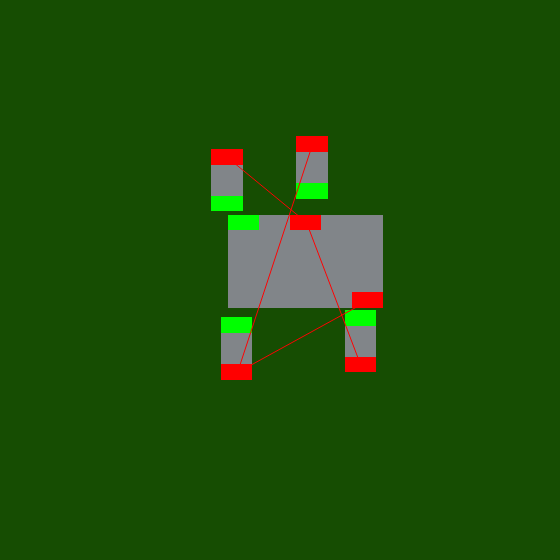
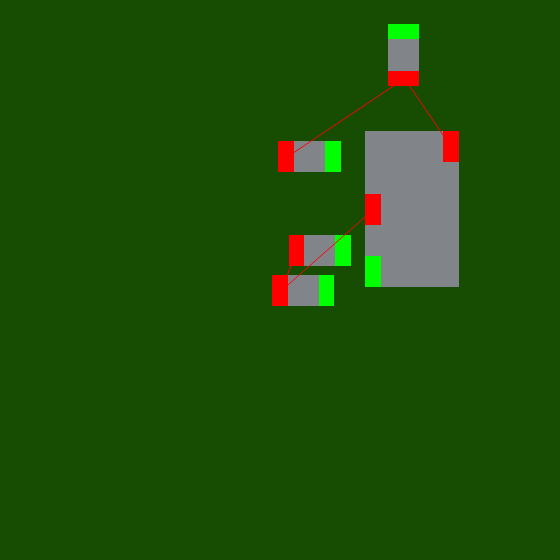
slower and worse??

Changed region(s): [[0.3643, 0.2125, 0.8196, 0.6982], [0.6679, 0.0304, 0.7589, 0.1821], [0.4857, 0.6071, 0.5161, 0.6375]]

diff --git a/pcb-layout/src/ga.rs b/pcb-layout/src/ga.rs
@@ -376,51 +376,49 @@ pub fn genetic_algorithim(pl: Placement, pop_size: u32, num_generations: u32, ou
         println!("Original Score: {}", id.score());
     }
 
-    let now = Instant::now();/*
-    for _ in 0..num_generations {
-        population.par_iter_mut().for_each(|ind| {
-                if ind.mutate(){
-                    ind.score();
-                }
-        });
+    let now = Instant::now();
 
-        //elitist_selection(&mut population);
-        selection_algo(&mut population);
-        scores.push(population[0].fitness);
-    }*/
     // Clone the original population into n separate populations
     let num_populations = 3;
     //lets only clone/migrate every x generations
-    let reset_num = 4;
-    let mut populations: Vec<Vec<Individual>>  = (0..num_populations).map(|_|  population.clone()).collect();
+    let reset_num = 20;
+    let use_double_par = false;
+    let mut populations: Vec<& mut [Individual]>  = population.chunks_mut((pop_size / nthreads).try_into().unwrap() ).collect();
     for cur_generation in 1..num_generations/num_populations{
         // Make our new populations
 
         if cur_generation % reset_num == 1{
-            populations  = (0..num_populations).map(|_|  population.clone()).collect();
+            //populations  = (0..num_populations).map(|_|  population.clone()).collect();
 
         }
 
         // Apply evolution in parallel to all populations
         //NOTE: THIS STARTED AS CHAT GPT CODE. IT DOESN'T REALLY RESEMBLE IT ANY MORE
-        let mut all_scores: Vec<_> = populations
-            .par_iter_mut()
-            .map(|population| {
-                population.par_iter_mut().for_each(|ind| {
-                        if ind.mutate(){
-                            ind.score();
-                        }
+        populations.par_iter_mut().for_each( |pop| {
+            if use_double_par{
+            pop.par_iter_mut().for_each(|ind| {
+                if ind.mutate(){
+                    ind.score();
+                    }
                 });
 
-                selection_algo(population);
-                population 
-            }).collect();
+            }else{
+                for ind in pop.into_iter(){
+                    if ind.mutate(){
+                        ind.score();
+                    }
+                }
+            }
+
+                selection_algo(& mut pop.to_vec());
+            });
         //CLONE IS EXPENSIVE?
 
         if cur_generation % reset_num == 0{
-            population = all_scores.iter().flat_map(|p| (**p).clone()).collect();
+            //population = all_scores.iter().flat_map(|p| (**p).clone()).collect();
             selection_algo(&mut population);
-            population.truncate(pop_size.try_into().unwrap());
+            //population.truncate(pop_size.try_into().unwrap());
+            populations = population.chunks_mut((pop_size / nthreads).try_into().unwrap()).collect();
         }
     }
     println!("{} {}", population.len(), pop_size);

diff --git a/little-notebook.md b/little-notebook.md
@@ -82,6 +82,10 @@ selection algo
 
 ```
 
+I implemented this but I think something is broken - getting WAY more overlaps when I used to have 0
+
+Need to look at my selection/crossover. I am certain its in crossover
+
 
 
 
